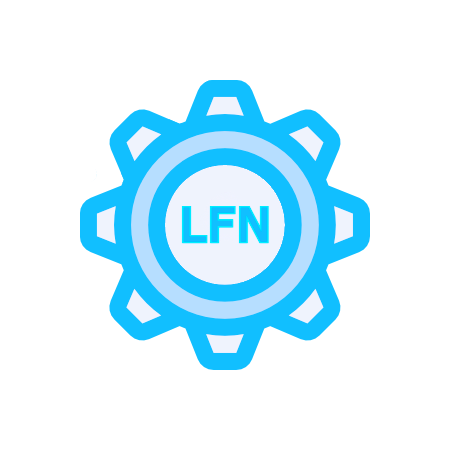
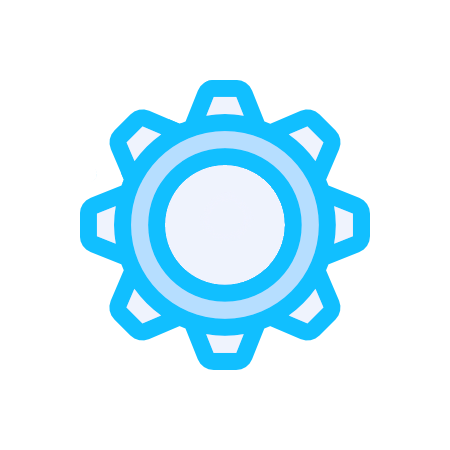
로고 피드백 반영

Changed region(s): [[0.4044, 0.4356, 0.6222, 0.56]]

diff --git a/apps/aweportal/frameset.html b/apps/aweportal/frameset.html
@@ -104,12 +104,9 @@
                 <!----로고 애니메이션----->
 
                 <a href="#" class="link">
-
-                    <!-- <img src="servers.png" alt="logo" width="200" height="200"> -->
                     <img src="gear.png" alt="logo" width="200" height="200">
                     <img src="letter.png" alt="logo" width="200" height="200">
-
-
+                    <img src="lfn.png" alt="logo" width="200" height="200">
                 </a>
 
             </div>

diff --git a/style.css b/style.css
@@ -150,6 +150,10 @@ body {
     position: absolute; top: 0; left: 0;
 }
 
+.link > img:nth-child(3) {
+    position: absolute; top: 0; left: 0;
+}
+
 
 
 /*상단 메뉴 */
